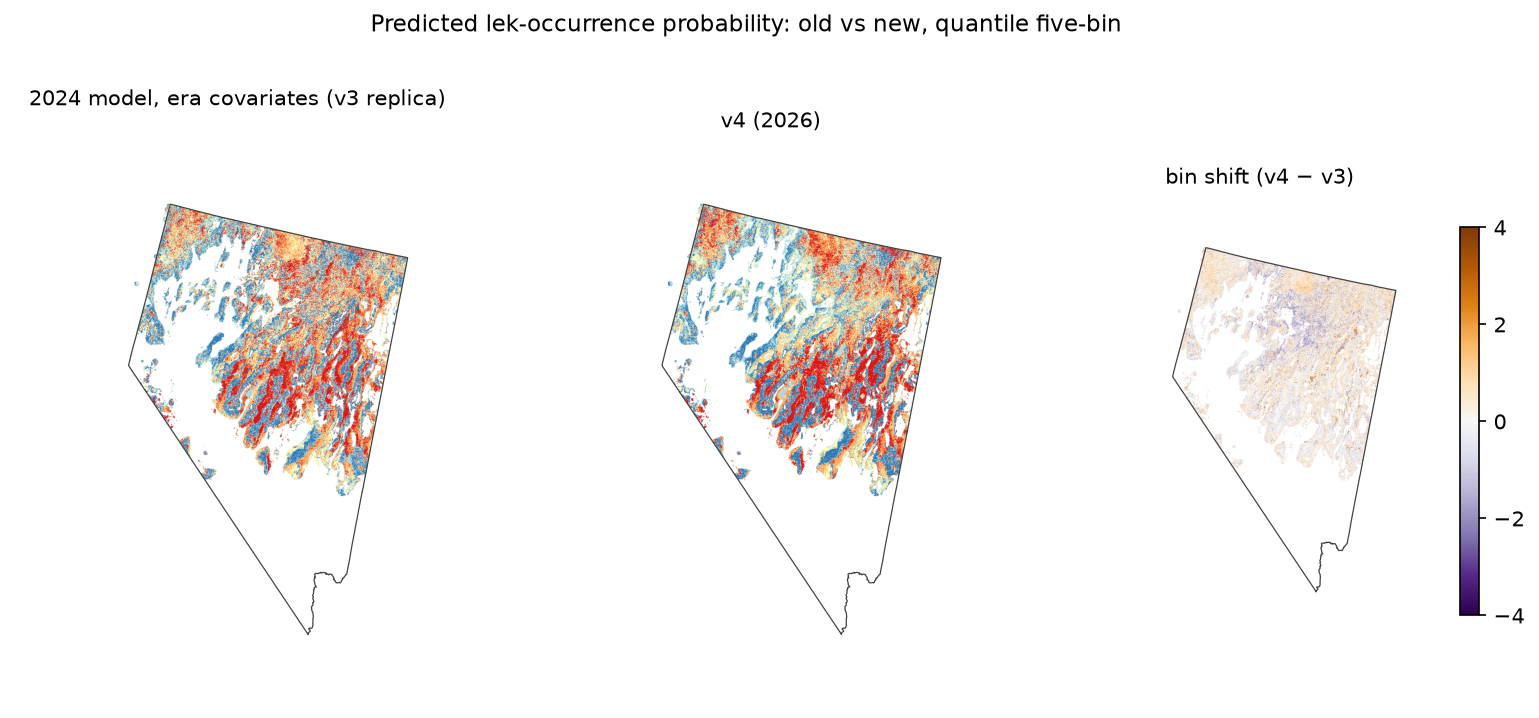
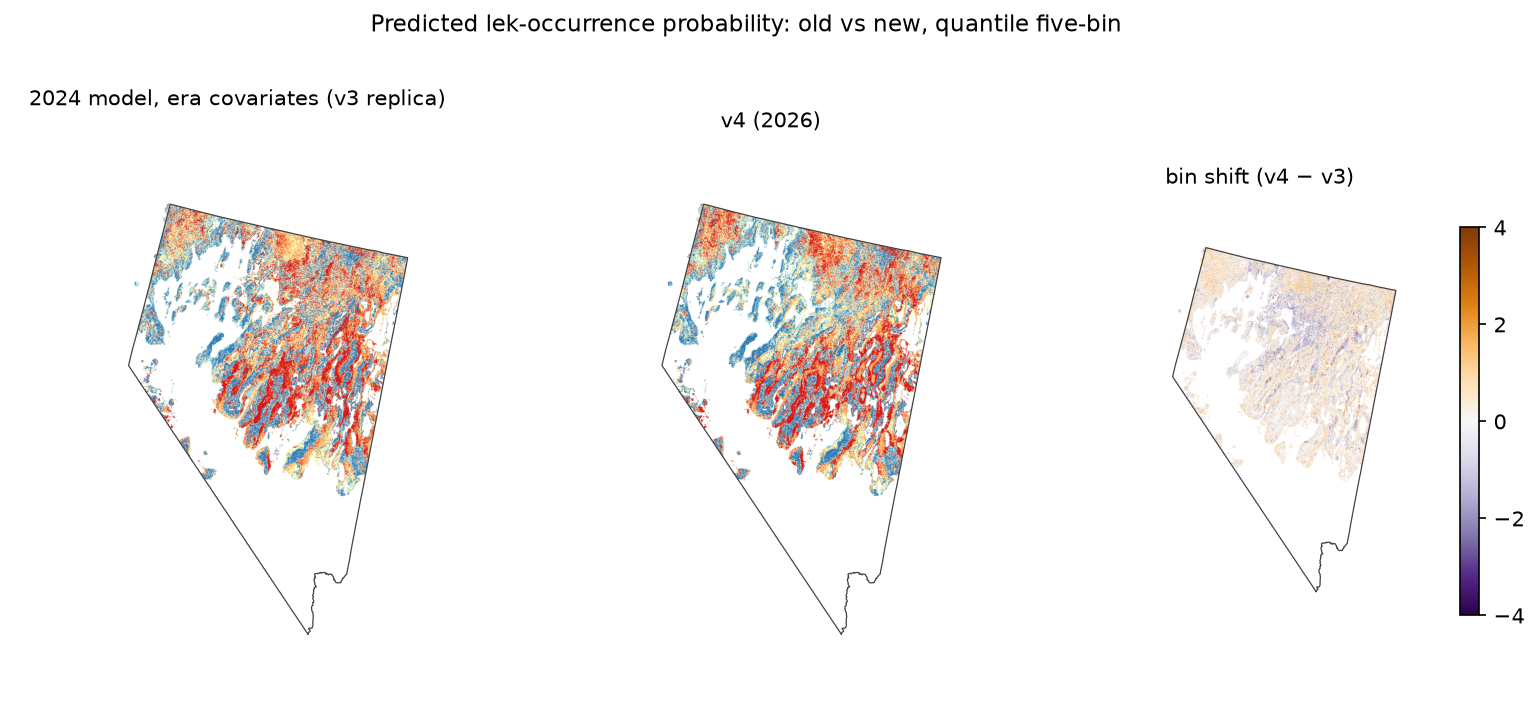
Straggler sweep: computed figure titles (Boyce, USGS rho), era comparison rerun vs repaired surface (0.82/52.8/92.4), findings synced to m13 validation numbers

Changed region(s): [[0.4366, 0.3064, 0.5926, 0.6741], [0.8109, 0.5209, 0.8733, 0.5515], [0.8733, 0.4596, 0.9045, 0.4903]]

diff --git a/pipeline/map_panels.py b/pipeline/map_panels.py
@@ -93,7 +93,8 @@ cb1.ax.set_yticklabels([f"category {c}" for c in cats], fontsize=7)
 for ax in axes:
     nv.boundary.plot(ax=ax, color="#444", linewidth=0.6)
     ax.set_axis_off()
-fig.suptitle("External comparison within the study area (Spearman \u03c1 = 0.52)", fontsize=11)
+_rho = open(ROOT / "reports/v4/usgs_validation.txt").read().split("Spearman(ours, USGS): ")[1].strip()
+fig.suptitle(f"External comparison within the study area (Spearman \u03c1 = {float(_rho):.2f})", fontsize=11)
 fig.savefig(FIGS / "usgs_side_by_side.png", dpi=150, bbox_inches="tight")
 plt.close(fig)
 
@@ -117,7 +118,9 @@ ax.plot(mids, F, "-o", color="#3a6ea5")
 ax.axhline(1.0, color="#999", linestyle="--", linewidth=0.8)
 ax.set_xlabel("predicted probability (class midpoint)")
 ax.set_ylabel("predicted-to-expected ratio")
-ax.set_title("Boyce evaluation: P/E by probability class (index = 0.99)", fontsize=10)
+_rk = lambda a: pd.Series(a).rank().values
+_boyce = float(np.corrcoef(_rk(np.array(mids)), _rk(np.array(F)))[0, 1])
+ax.set_title(f"Boyce evaluation: P/E by probability class (index = {_boyce:.2f})", fontsize=10)
 fig.savefig(FIGS / "boyce_curve.png", dpi=150, bbox_inches="tight")
 plt.close(fig)
 print("MAP_PANELS_COMPLETE")

diff --git a/reports/v4/tables/bin_agreement.md b/reports/v4/tables/bin_agreement.md
@@ -1,7 +1,7 @@
 |              | v4 very low   | v4 low   | v4 moderate   | v4 high   | v4 very high   |
 |:-------------|:--------------|:---------|:--------------|:----------|:---------------|
-| v3 very low  | 14.6%         | 4.3%     | 0.8%          | 0.2%      | 0.1%           |
-| v3 low       | 4.3%          | 10.5%    | 4.7%          | 0.4%      | 0.1%           |
-| v3 moderate  | 0.7%          | 3.5%     | 8.8%          | 6.4%      | 0.6%           |
-| v3 high      | 0.2%          | 1.2%     | 2.9%          | 9.5%      | 6.2%           |
-| v3 very high | 0.2%          | 0.5%     | 2.9%          | 3.5%      | 12.9%          |
+| v3 very low  | 14.9%         | 4.5%     | 0.4%          | 0.2%      | 0.1%           |
+| v3 low       | 3.9%          | 10.5%    | 5.2%          | 0.3%      | 0.1%           |
+| v3 moderate  | 0.8%          | 3.3%     | 8.0%          | 7.3%      | 0.7%           |
+| v3 high      | 0.2%          | 1.1%     | 3.6%          | 7.7%      | 7.3%           |
+| v3 very high | 0.2%          | 0.6%     | 2.8%          | 4.5%      | 11.7%          |
